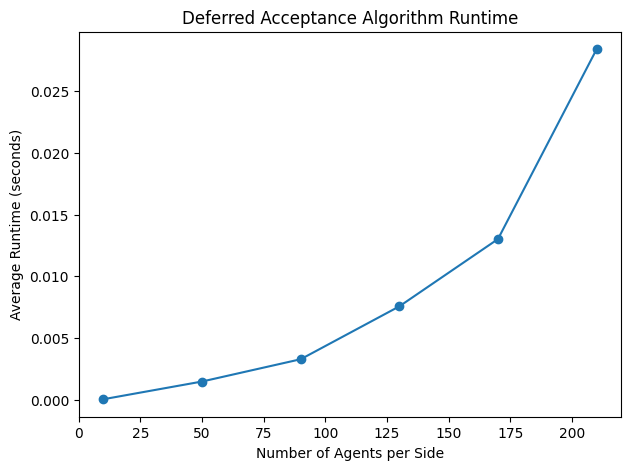
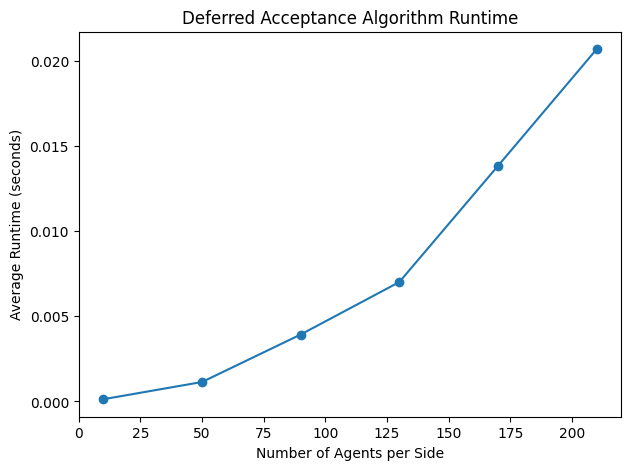
deferred acceptance updated

diff --git a/matching_algorithms/main.py b/matching_algorithms/main.py
@@ -31,6 +31,7 @@ def deferred_acceptance(men_preferences, women_preferences, men_propose=True):
     # Initialize all proposers as free
     free_proposers = proposers.copy()
     engagements = {}
+    next_to_propose = {proposer: 0 for proposer in proposers}
     
     # Continue while there are free proposers who still have acceptors to propose to
     while free_proposers:
@@ -39,28 +40,32 @@ def deferred_acceptance(men_preferences, women_preferences, men_propose=True):
         # Get the proposer's preference list
         proposer_prefs = proposer_preferences[proposer]
         
-        for acceptor in proposer_prefs:
-            # If the acceptor is free, engage them
-            if acceptor not in engagements.values():
-                engagements[proposer] = acceptor
-                break
-            else:
-                # Find the current partner of the acceptor
-                current_partner = [p for p, a in engagements.items() if a == acceptor][0]
-                
-                # If the acceptor prefers this proposer to their current partner
-                if acceptor_preferences[acceptor].index(proposer) < acceptor_preferences[acceptor].index(current_partner):
-                    # Break the current engagement
-                    del engagements[current_partner]
-                    # Create the new engagement
-                    engagements[proposer] = acceptor
-                    # Add the previous partner back to free proposers
-                    free_proposers.append(current_partner)
-                    break
+        # Check if the proposer has already proposed to everyone
+        if next_to_propose[proposer] >= len(proposer_prefs):
+            continue
+        
+        acceptor = proposer_prefs[next_to_propose[proposer]]
+        next_to_propose[proposer] += 1
+        
+        # If the acceptor is free, engage them
+        if acceptor not in engagements.values():
+            engagements[proposer] = acceptor
         else:
-            # If the proposer has proposed to all acceptors and is still unmatched, add them back to free proposers
-            free_proposers.append(proposer)
-    
+            # Find the current partner of the acceptor
+            current_partner = [p for p, a in engagements.items() if a == acceptor][0]
+            
+            # If the acceptor prefers this proposer to their current partner
+            if acceptor_preferences[acceptor].index(proposer) < acceptor_preferences[acceptor].index(current_partner):
+                # Break the current engagement
+                del engagements[current_partner]
+                # Create the new engagement
+                engagements[proposer] = acceptor
+                # Add the previous partner back to free proposers
+                free_proposers.append(current_partner)
+            else:
+                # If rejected, add the proposer back to free proposers
+                free_proposers.append(proposer)
+
     return engagements
 
 #------------------------------------------------------------------------------------------------------------

diff --git a/README.md b/README.md
@@ -80,12 +80,12 @@ The algorithm proceeds in rounds:
 ## Runtime Table:
 | Number of Agents per Side | Average Runtime (seconds) |
 |---------------------------|---------------------------|
-| 10                        | 0.000079                  |
-| 50                        | 0.001461                  |
-| 90                        | 0.004190                  |
-| 130                       | 0.008820                  |
-| 170                       | 0.016767                  |
-| 210                       | 0.028463                  |
+| 10                        | 0.000132                  |
+| 50                        | 0.001144                  |
+| 90                        | 0.003932                  |
+| 130                       | 0.007014                  |
+| 170                       | 0.013835                  |
+| 210                       | 0.020685                  |
 
 ![Deferred Acceptance Algorithm Runtime](images/da_runtime.png)
 
